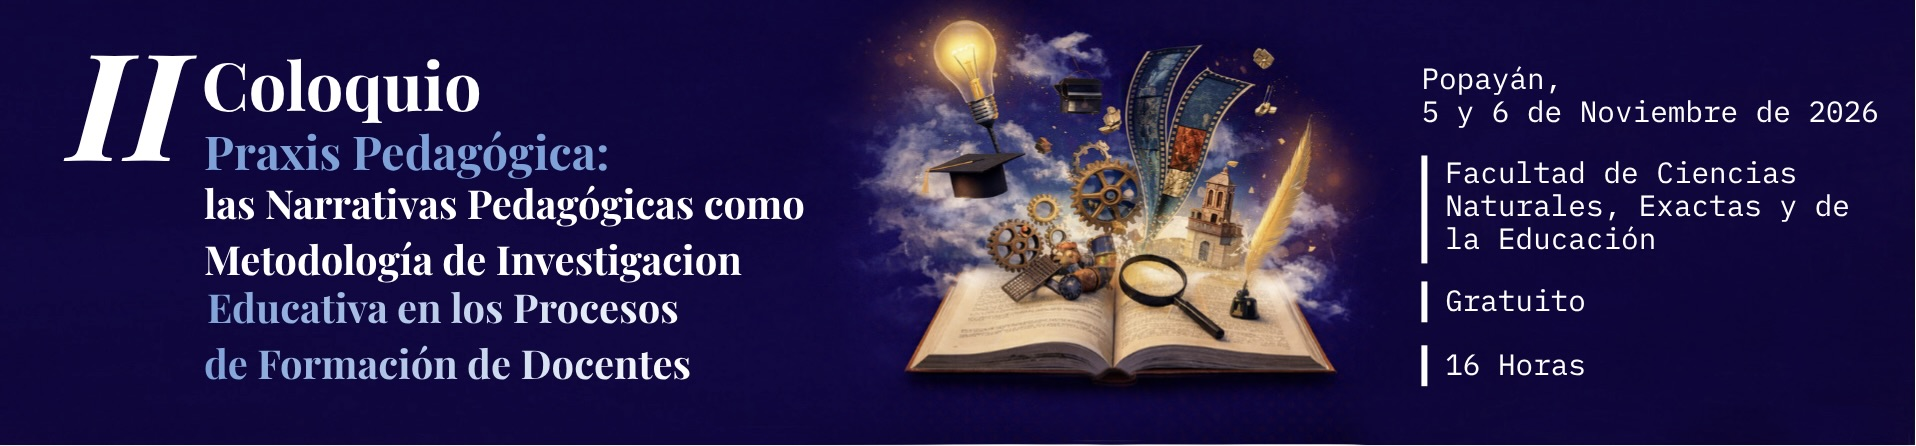
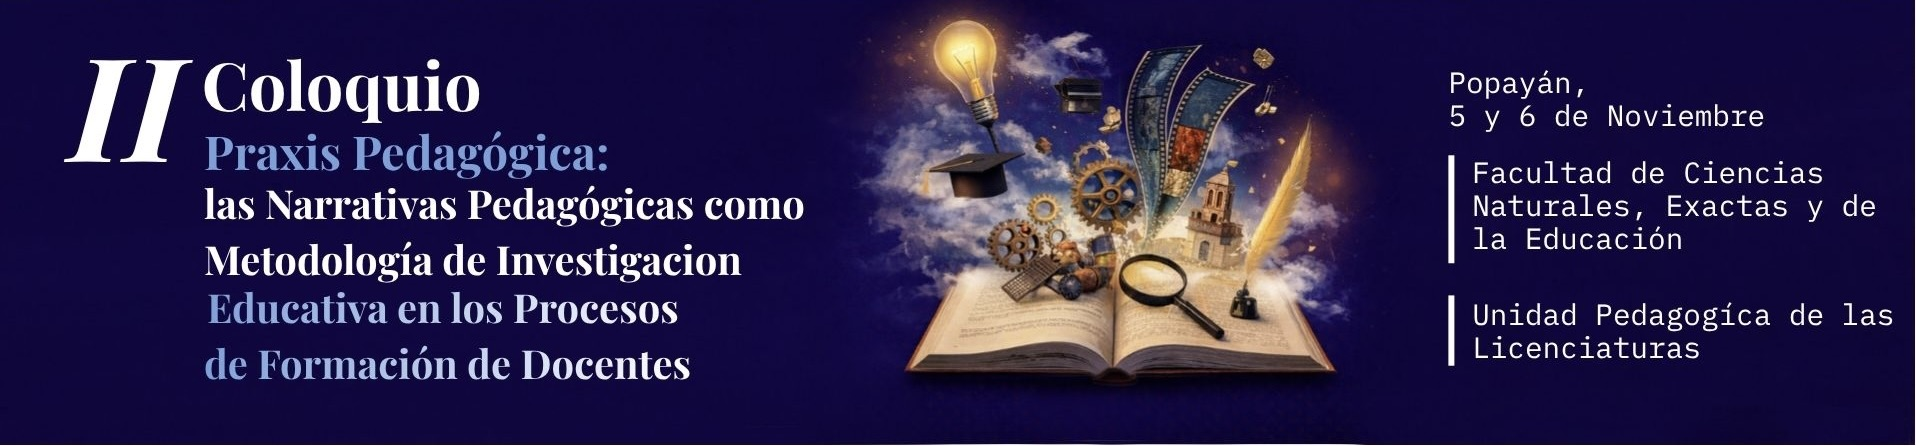
fix padding and home-bg image

diff --git a/assets/css/pages/index-page.css b/assets/css/pages/index-page.css
@@ -6,12 +6,12 @@ body.business-consulting {
 
 body.business-consulting .page-wrapper > section {
     background: var(--bg-base);
-    padding: clamp(2.25rem, 4vw, 3.5rem) 0;
+    padding: clamp(2.25rem, 4vw, 3.5rem) clamp(0.9rem, 3vw, 2.1rem);
 }
 
 body.business-consulting .page-wrapper > .home-highlights-section {
     background: transparent;
-    padding: 0.65rem 0 0.35rem;
+    padding: 0.65rem clamp(0.9rem, 3vw, 2.1rem) 0.35rem;
 }
 
 body.business-consulting .home-highlights-panel {
@@ -33,13 +33,13 @@ body.business-consulting .page-wrapper > .timer-section.style-two {
 
 body.business-consulting .timer-section.style-two .inner-container {
     background: var(--bg-base);
+    margin-top: 0.5rem;
 }
 
 body.business-consulting .timer-section.style-two .title-column .inner-column {
     position: relative;
     z-index: 0;
     overflow: hidden;
-    height: 100%;
     min-height: 100%;
     padding: 0;
     display: flex;
@@ -81,7 +81,7 @@ body.business-consulting .home-highlights-card::after {
     width: 72px;
     height: 72px;
     border-radius: 50%;
-    background: radial-gradient(circle at center, rgba(0, 0, 102, 0.07), rgba(0, 0, 102, 0) 68%);
+    background: transparent;
     pointer-events: none;
 }
 
@@ -105,11 +105,16 @@ body.business-consulting .home-highlights-icon {
 body.business-consulting .home-highlights-copy {
     position: relative;
     z-index: 1;
+    display: flex;
+    flex-direction: column;
+    justify-content: center;
+    min-height: 40px;
+    line-height: 1;
 }
 
 body.business-consulting .home-highlights-label {
     display: block;
-    margin-bottom: 0.12rem;
+    margin-bottom: 0;
     color: var(--brand-secondary);
     font-size: 0.66rem;
     font-weight: 800;
@@ -122,7 +127,7 @@ body.business-consulting .home-highlights-value {
     color: var(--primary-dark);
     font-size: clamp(0.94rem, 1.2vw, 1.08rem);
     font-weight: 800;
-    line-height: 1.15;
+    line-height: 1.3;
 }
 
 body.business-consulting .page-wrapper > section:nth-of-type(odd) {
@@ -178,6 +183,39 @@ body.business-consulting .market-section .video-column .inner-column img {
     width: 100%;
     border-radius: 18px;
     box-shadow: 0 10px 24px rgba(7, 24, 74, 0.08);
+}
+
+@-webkit-keyframes softSlideInRight {
+    0% {
+        opacity: 0;
+        -webkit-transform: translate3d(36px, 0, 0);
+        transform: translate3d(36px, 0, 0);
+    }
+
+    100% {
+        opacity: 1;
+        -webkit-transform: translate3d(0, 0, 0);
+        transform: translate3d(0, 0, 0);
+    }
+}
+
+@keyframes softSlideInRight {
+    0% {
+        opacity: 0;
+        -webkit-transform: translate3d(36px, 0, 0);
+        transform: translate3d(36px, 0, 0);
+    }
+
+    100% {
+        opacity: 1;
+        -webkit-transform: translate3d(0, 0, 0);
+        transform: translate3d(0, 0, 0);
+    }
+}
+
+body.business-consulting .soft-slide-in-right {
+    -webkit-animation-name: softSlideInRight;
+    animation-name: softSlideInRight;
 }
 
 body.business-consulting .welcome-section-two .auto-container,
@@ -326,7 +364,7 @@ body.business-consulting .whatsappLink:hover {
 
 @media (max-width: 991.98px) {
     body.business-consulting .page-wrapper > section {
-        padding: 2.25rem 0;
+        padding: 2.25rem clamp(0.9rem, 4vw, 1.35rem);
     }
 
     body.business-consulting .sec-title h2 {
@@ -369,7 +407,7 @@ body.business-consulting .whatsappLink:hover {
     }
 
     body.business-consulting .page-wrapper > section {
-        padding: 1.75rem 0;
+        padding: 1.75rem clamp(0.8rem, 4.5vw, 1.05rem);
     }
 
     body.business-consulting .sec-title {

diff --git a/index.html b/index.html
@@ -42,27 +42,26 @@
     <!-- Timer Section -->
     <section class="timer-section style-two">
       <div class="auto-container">
-          <div class="home-highlights-panel">
-            <div class="home-highlights-card">
-              <div class="home-highlights-icon" aria-hidden="true">
-                <i class="fa-solid fa-ticket-simple"></i>
-              </div>
-              <div class="home-highlights-copy">
-                <span class="home-highlights-label">Acceso</span>
-                <strong class="home-highlights-value">Gratuito</strong>
-              </div>
+        <div class="home-highlights-panel">
+          <div class="home-highlights-card">
+            <div class="home-highlights-icon" aria-hidden="true">
+              <i class="fa-solid fa-ticket-simple"></i>
             </div>
-            <div class="home-highlights-card home-highlights-card--soft">
-              <div class="home-highlights-icon" aria-hidden="true">
-                <i class="fa-regular fa-clock"></i>
-              </div>
-              <div class="home-highlights-copy">
-                <span class="home-highlights-label">Duración</span>
-                <strong class="home-highlights-value">16 horas</strong>
-              </div>
+            <div class="home-highlights-copy">
+              <span class="home-highlights-label">Acceso</span>
+              <strong class="home-highlights-value">Gratuito</strong>
             </div>
           </div>
-        
+          <div class="home-highlights-card home-highlights-card--soft">
+            <div class="home-highlights-icon" aria-hidden="true">
+              <i class="fa-regular fa-clock"></i>
+            </div>
+            <div class="home-highlights-copy">
+              <span class="home-highlights-label">Duración</span>
+              <strong class="home-highlights-value">16 horas</strong>
+            </div>
+          </div>
+        </div>
 
         <div class="inner-container">
           <div class="row clearfix">
@@ -133,7 +132,7 @@
           <!-- Video Column -->
           <div class="video-column col-lg-6 col-md-12 col-sm-12">
 
-            <div class="inner-column wow slideInRight" data-wow-delay="0ms" data-wow-duration="1500ms">
+            <div class="inner-column wow soft-slide-in-right" data-wow-delay="0ms" data-wow-duration="1500ms">
               <div class="text-center">
                 <img src="assets/images/metodologia.jpg" class="img-fluid" alt="">
               </div>

diff --git a/assets/css/pages/lineasTematicas-page.css b/assets/css/pages/lineasTematicas-page.css
@@ -23,7 +23,7 @@ body.business-consulting {
 }
 
 body.business-consulting .page-wrapper > section {
-    padding: clamp(2rem, 3.5vw, 3.5rem) 0;
+    padding: clamp(2rem, 3.5vw, 3.5rem) clamp(0.9rem, 3vw, 2.1rem);
 }
 
 body.business-consulting .sec-title.centered h2,
@@ -128,7 +128,7 @@ body.business-consulting .ecosistemas-evento .card-body h2::after {
 
 @media (max-width: 767.98px) {
     body.business-consulting .page-wrapper > section {
-        padding: 2rem 0;
+        padding: 2rem clamp(0.8rem, 4.5vw, 1.05rem);
     }
 
     body.business-consulting .sec-title.centered h2 {

diff --git a/assets/css/pages/agenda-page.css b/assets/css/pages/agenda-page.css
@@ -23,7 +23,7 @@ body.business-consulting {
 }
 
 body.business-consulting .page-wrapper > section {
-    padding: clamp(2rem, 3.5vw, 3.5rem) 0;
+    padding: clamp(2rem, 3.5vw, 3.5rem) clamp(0.9rem, 3vw, 2.1rem);
 }
 
 body.business-consulting .agenda-title,
@@ -401,7 +401,7 @@ body.business-consulting .important-announcement h3 {
 
 @media (max-width: 767.98px) {
     body.business-consulting .page-wrapper > section {
-        padding: 2rem 0;
+        padding: 2rem clamp(0.8rem, 4.5vw, 1.05rem);
     }
 
     body.business-consulting .dates-section .container,

diff --git a/components/header.html b/components/header.html
@@ -87,6 +87,9 @@
 <!-- Banner Section (moved aquí para reutilizar en todas las páginas) -->
 <section class="banner-section-two">
     <div class="outer-container clearfix">
-        <img src="assets/images/home-bg.jpg" width="100%" alt="...">
+        <picture>
+            <source media="(max-width: 991.98px)" srcset="assets/images/home-bg-mobile.jpg">
+            <img src="assets/images/home-bg.jpg" width="100%" alt="Banner principal del evento">
+        </picture>
     </div>
 </section>

diff --git a/assets/css/layout/responsive.css b/assets/css/layout/responsive.css
@@ -346,6 +346,10 @@
 		width:100%;
 		display:block;
 	}
+
+	.banner-section-two{
+		padding-top:0px;
+	}
 	
 	.fluid-section-two .image-column .image,
 	.fluid-section-one .image-column .image,
